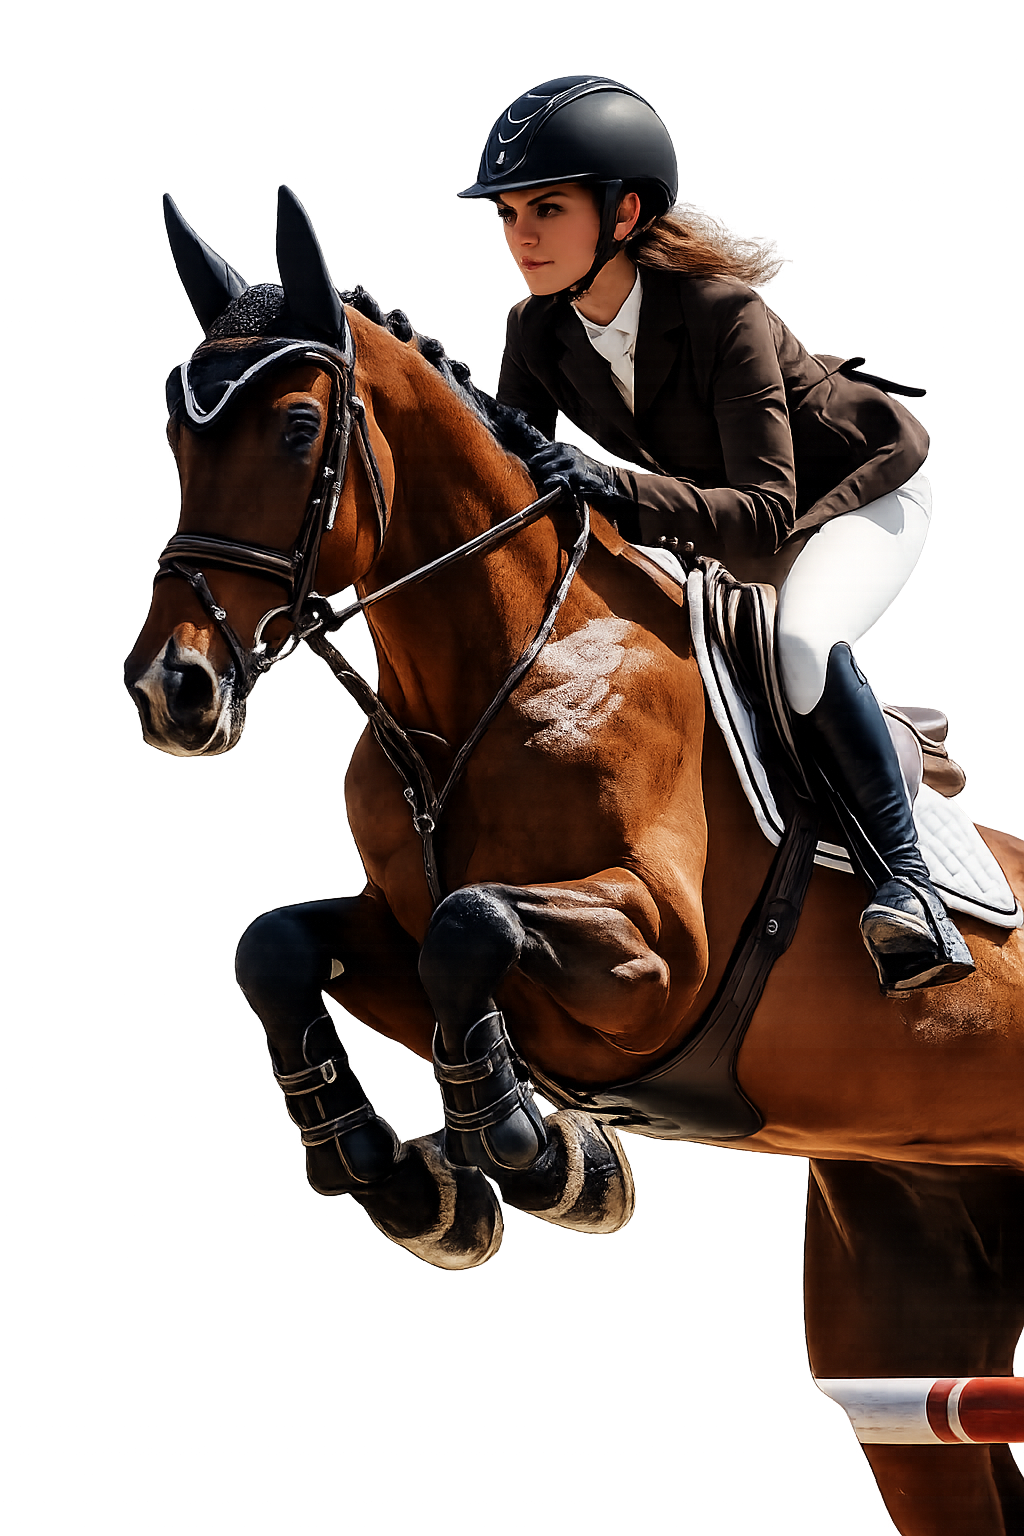
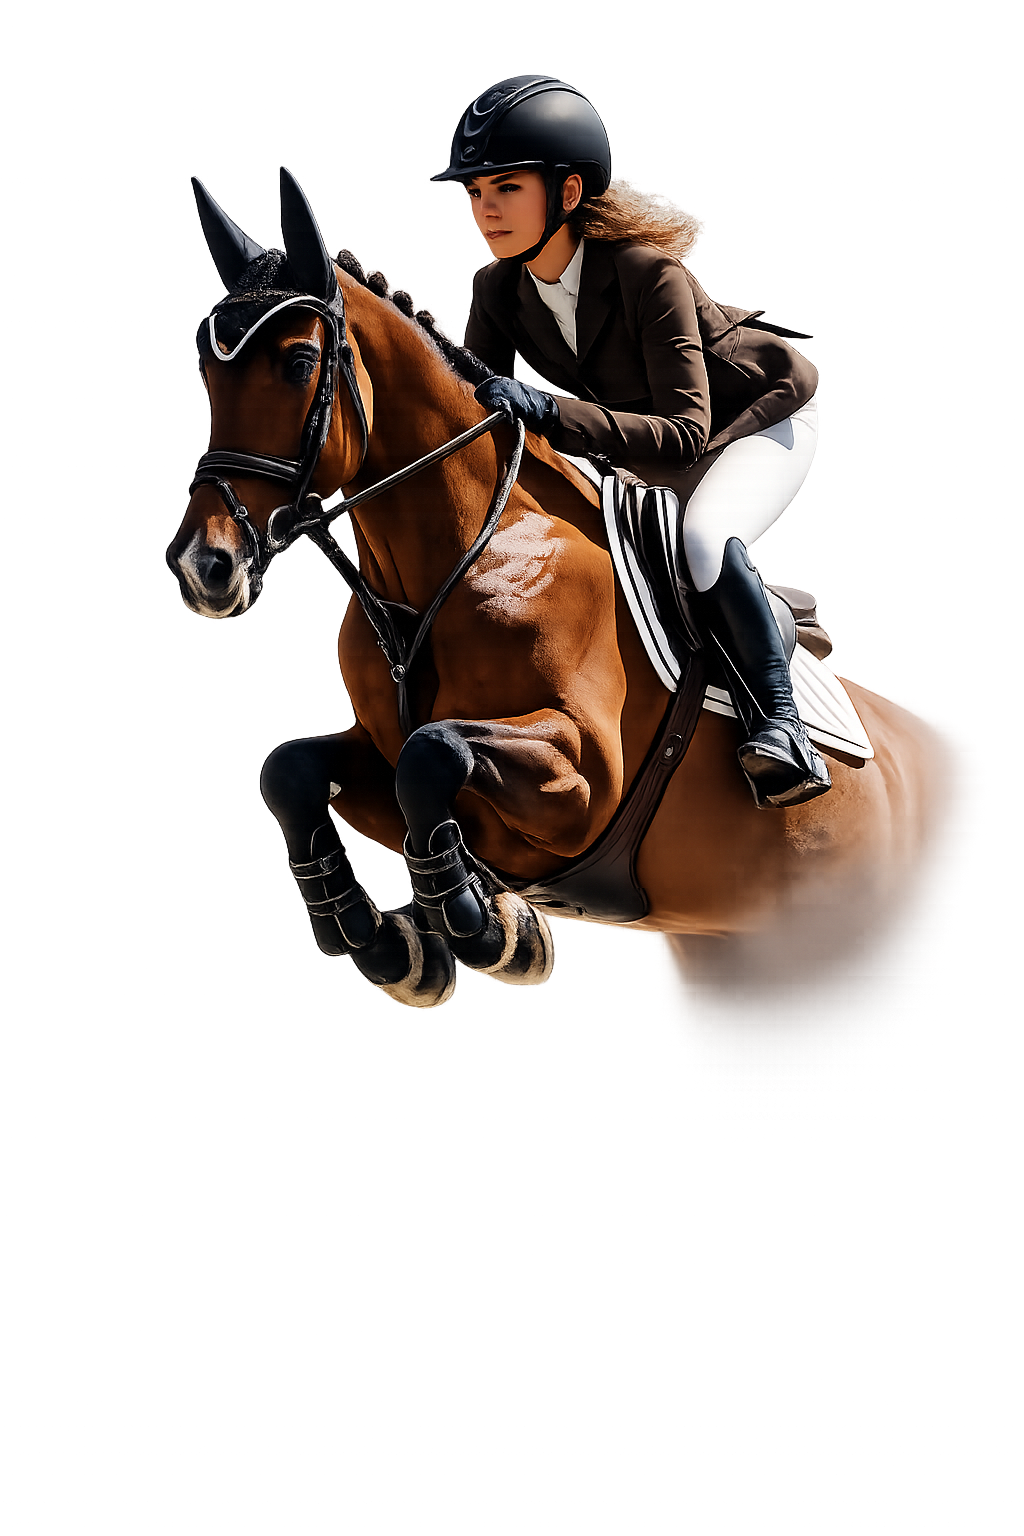
Update new pic

diff --git a/src/App.css b/src/App.css
@@ -260,26 +260,6 @@
   overflow: visible;
 }
 
-/* vertical blur/fade on the right side to mask the image edge */
-.hero-visual::after {
-  content: "";
-  position: absolute;
-  /* make the overlay half the container height and anchor near the bottom */
-  height: 50%;
-
-  bottom: -19vh;
-  top: auto;
-  /* width anchored to image size (image width is 40vw), position to its right edge */
-  width: 7vw;
-  left: calc(50% + 15vw);
-  pointer-events: none;
-  z-index: 1; /* above the image (z-index:0) but below text (z-index:2) */
-  /* make overlay neutral (no tint) and rely on backdrop-filter for blur */
-  background: transparent;
-  backdrop-filter: blur(10px);
-  box-shadow: none;
-}
-
 .image-glow {
   position: absolute;
   inset: auto 4% 8% 4%;
@@ -299,12 +279,12 @@
   left: 50%;
   right: auto;
   top: 0;
-  width: 40vw;
-  max-width: 480px;
+  width: 44vw;
+  max-width: 540px;
   height: auto;
   object-fit: contain;
   object-position: center top;
-  transform: translate(-50%, 6vh);
+  transform: translate(-50%, 5vh);
   filter: drop-shadow(0 34px 45px rgba(0, 0, 0, 0.45));
   z-index: 0; /* sit behind the main content */
   pointer-events: none;
